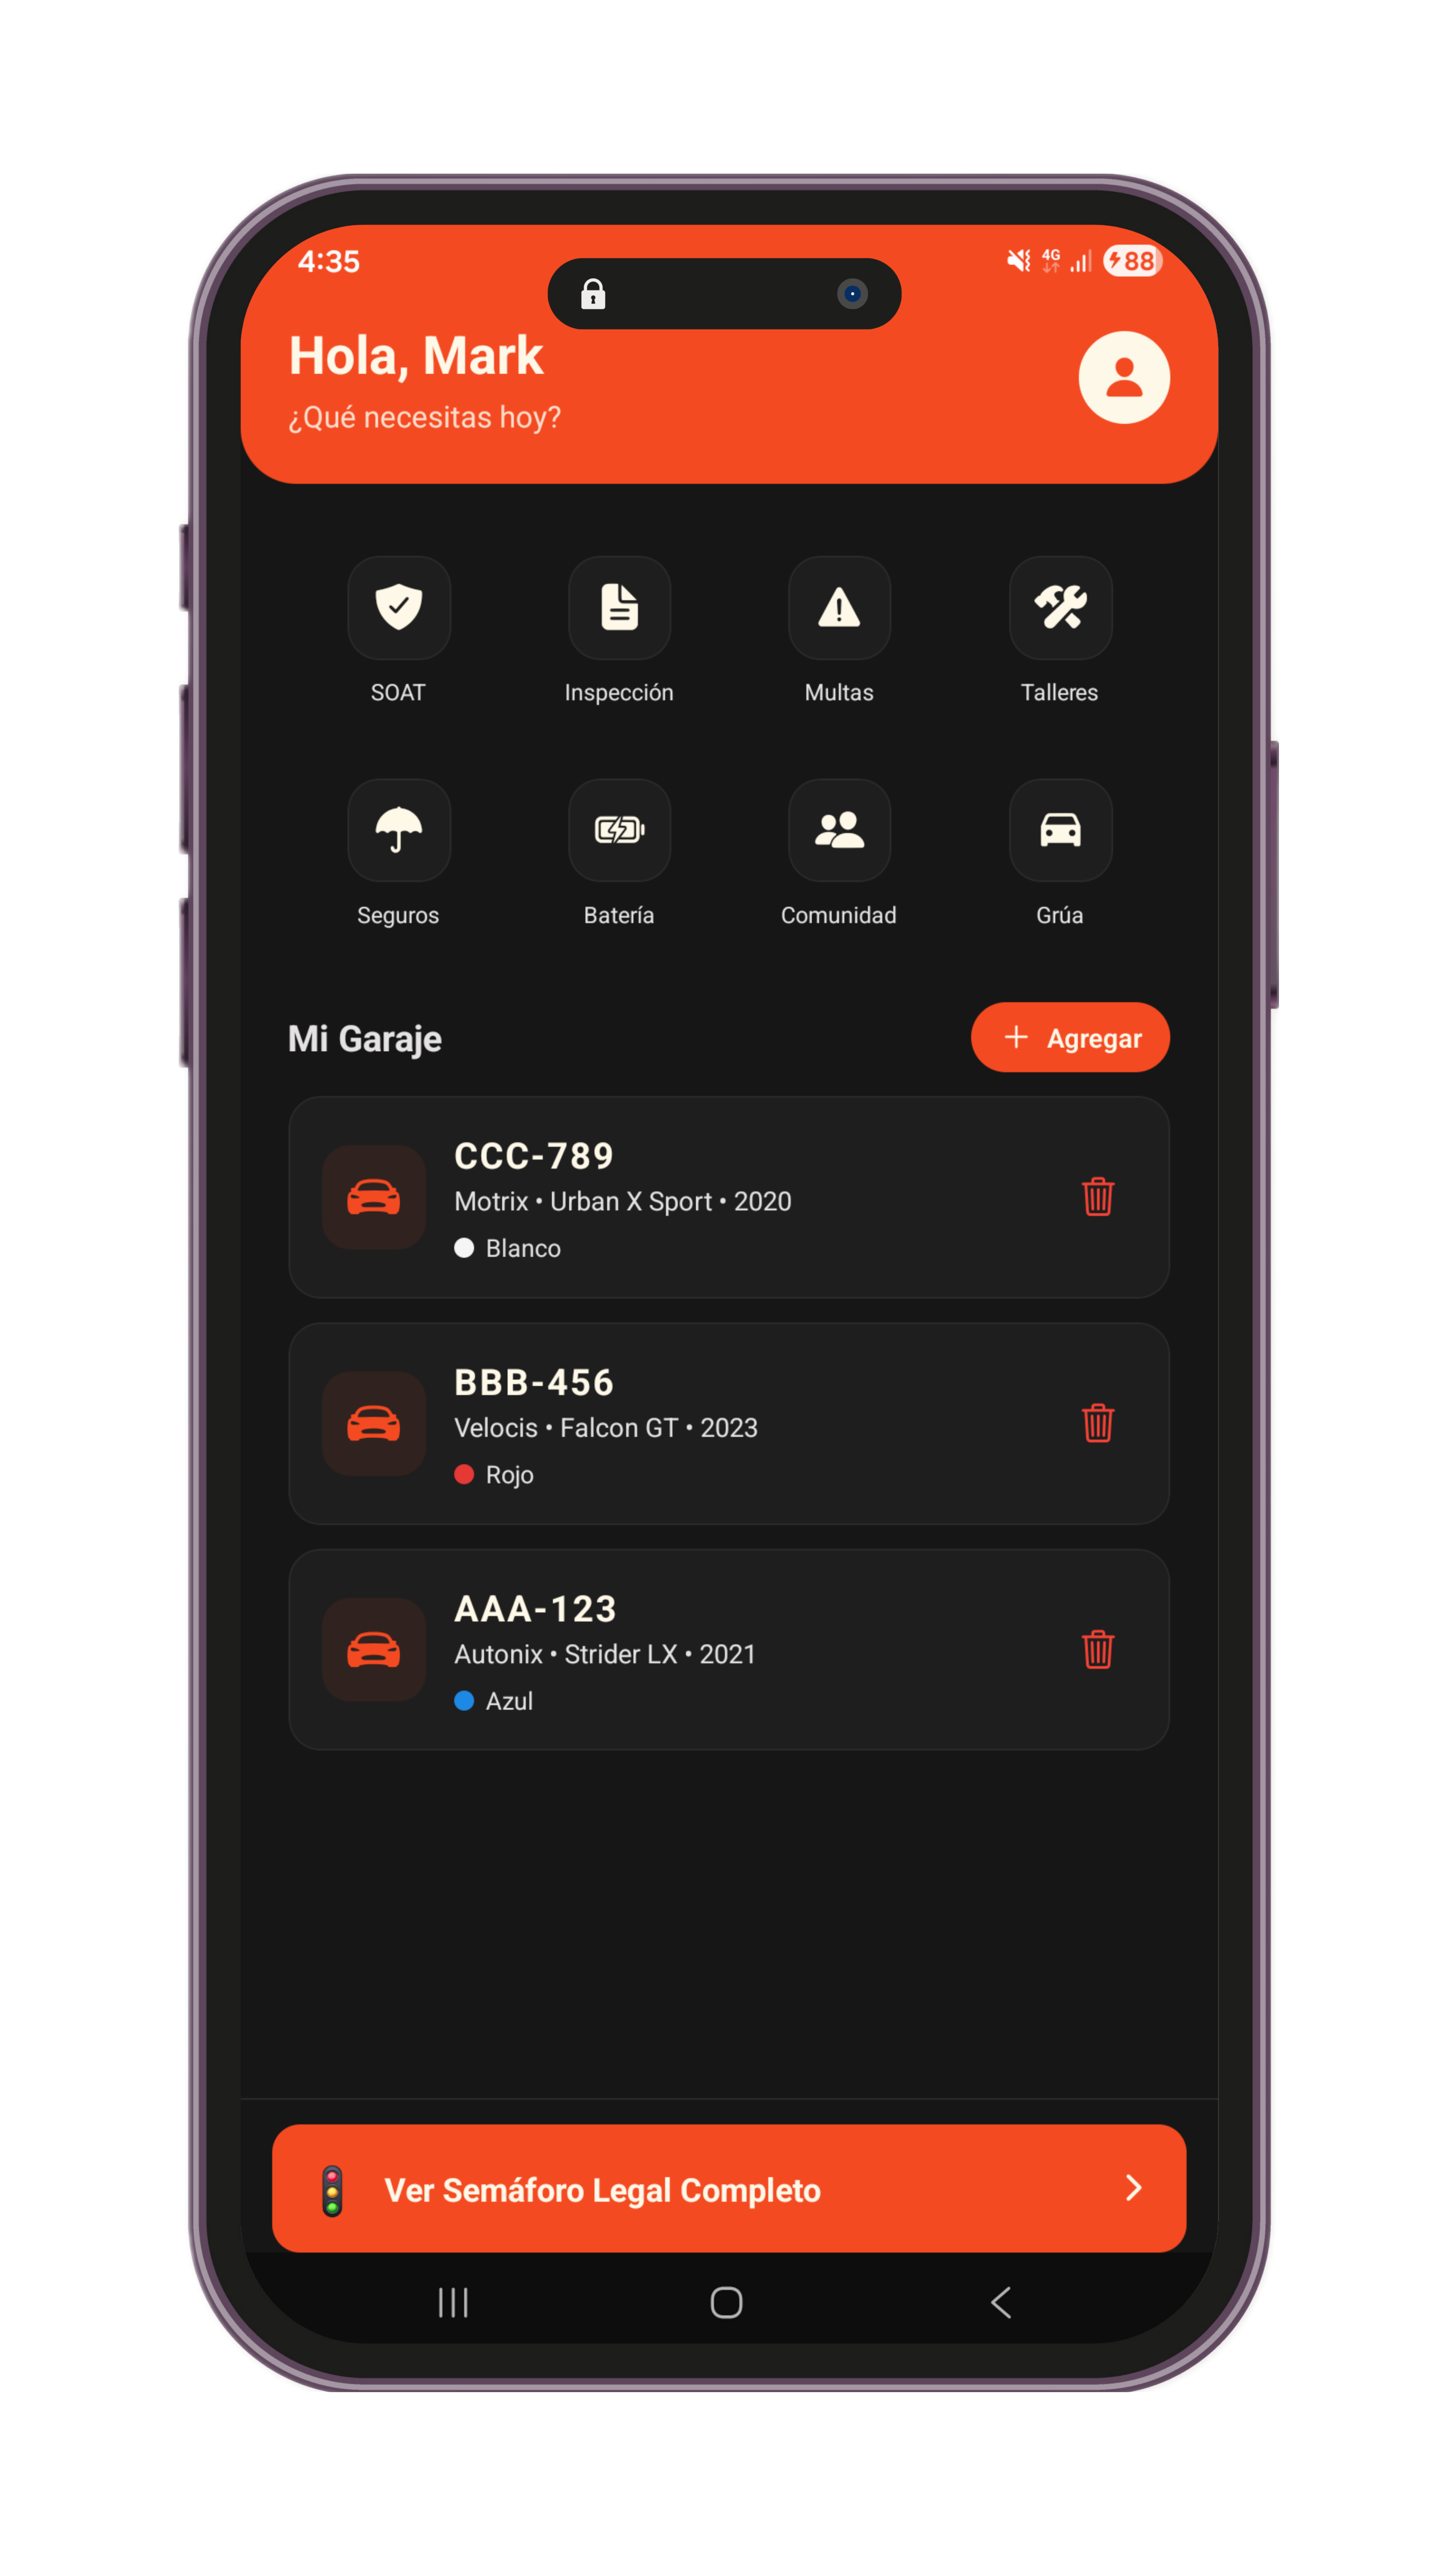
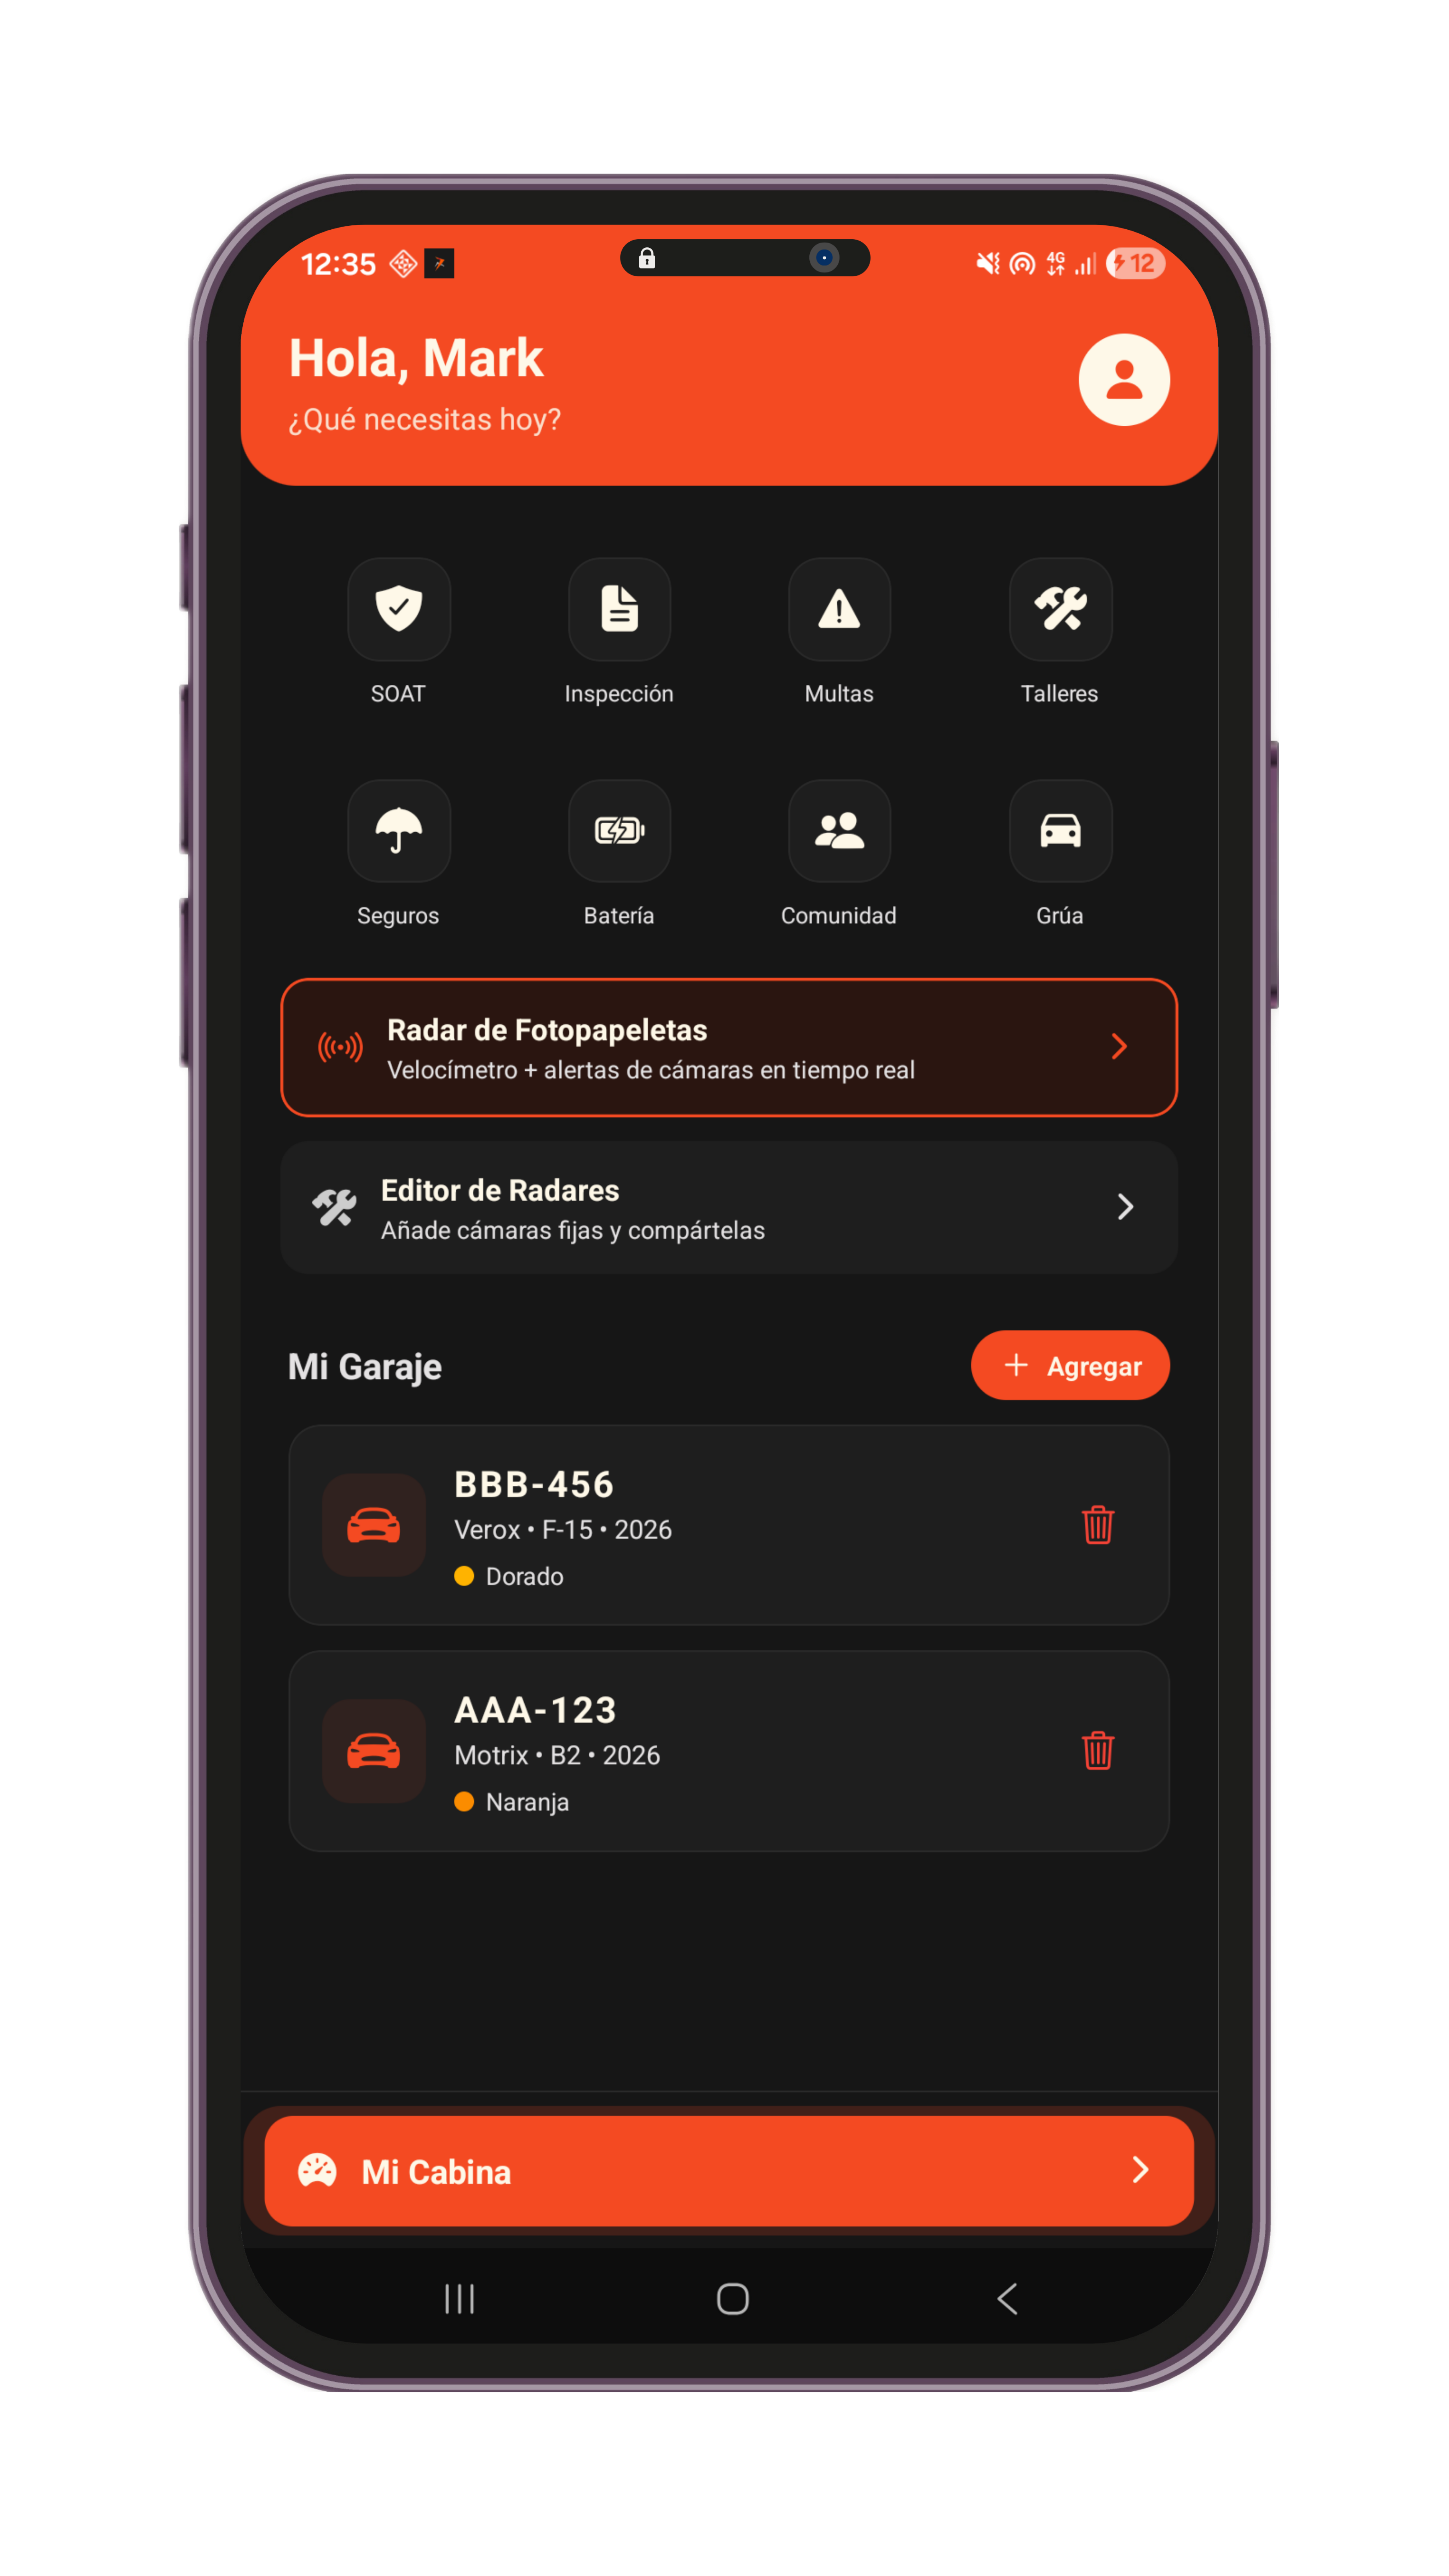
feat(landing): priorizar sistema Report-to-Earn (PR) y actualización legal
- refactor(ui): reemplazo de 'Editor de Radares' por la tarjeta de monetización 'Monetiza tu Ruta (PR)'.

- feat(ui): reestructuración de la cuadrícula de características para resaltar la ganancia por reportes.

- docs(legal): actualización de Términos y Condiciones y Política de Privacidad con cláusulas de protección para PR y RC.

- chore: optimización de metadatos para el despliegue v4.1 en Vercel.

diff --git a/src/pages/TermsOfService.jsx b/src/pages/TermsOfService.jsx
@@ -12,7 +12,7 @@ export default function TermsOfService() {
           Términos y Condiciones de Uso
         </h1>
         <p className="mb-4 text-sm text-ravagx-gray">
-          Última actualización: 30 de abril de 2026 (v4.0.0)
+          Última actualización: 2 de mayo de 2026 (v4.1.0)
         </p>
         <p className="mb-12 text-gray-300 leading-relaxed">
           Estos Términos y Condiciones (&quot;Términos&quot;) regulan el acceso
@@ -297,6 +297,137 @@ export default function TermsOfService() {
               de una eventual terminación del programa, o de la eliminación de
               la cuenta por causa imputable al Usuario, caducarán sin derecho a
               compensación.
+            </p>
+          </section>
+
+          {/* 3.6 — Report-to-Earn (PR) */}
+          <section>
+            <h2 className="mb-3 text-xl font-bold text-white">
+              3.6 Programa Report-to-Earn — Puntos de Reporte (PR)
+            </h2>
+            <h3 className="mb-2 text-lg font-semibold text-white/90">
+              3.6.1 Naturaleza jurídica de los PR
+            </h3>
+            <p className="mb-4">
+              Los Puntos de Reporte (&quot;PR&quot;) son{" "}
+              <strong className="text-white">
+                puntos de lealtad promocionales internos
+              </strong>{" "}
+              otorgados de forma discrecional por RavaGx en reconocimiento a la
+              participación del Usuario en el programa Report-to-Earn. Los PR{" "}
+              <strong className="text-white">NO constituyen</strong> dinero
+              electrónico (Ley N° 29985), moneda de curso legal, criptomonedas,
+              criptoactivos, valores mobiliarios, depósitos bancarios ni
+              instrumentos financieros de naturaleza alguna. Los PR carecen de
+              valor monetario fuera del ecosistema RavaGx, no son transferibles
+              entre cuentas, no son heredables, no devengan intereses y no son
+              reembolsables en efectivo salvo dentro de los mecanismos de canje
+              vigentes publicados por RavaGx. El saldo en PR del Usuario{" "}
+              <strong className="text-white">
+                no constituye un crédito firme exigible
+              </strong>{" "}
+              contra RavaGx Team.
+            </p>
+            <h3 className="mb-2 text-lg font-semibold text-white/90">
+              3.6.2 Tasa de cambio variable y mínimos de retiro
+            </h3>
+            <p className="mb-4">
+              RavaGx se reserva el derecho{" "}
+              <strong className="text-white">
+                absoluto, unilateral y discrecional
+              </strong>{" "}
+              de fijar, modificar, ajustar, suspender o eliminar — en cualquier
+              momento y{" "}
+              <strong className="text-white">sin previo aviso</strong> ni
+              necesidad de justificación: (i) la tasa de conversión de PR a
+              Soles (PEN) o a cualquier otro medio de canje; (ii) los montos
+              mínimos y máximos de retiro o canje; (iii) las comisiones
+              aplicables; (iv) las frecuencias permitidas de retiro; (v) las
+              plataformas de pago habilitadas (Yape, Plin u otras); (vi) las
+              categorías de reporte que generan PR y los multiplicadores
+              aplicables; (vii) la caducidad o expiración de los puntos por
+              inactividad. Cualquier modificación se aplicará tanto a los PR
+              futuros como a los acumulados pendientes de canje.
+            </p>
+            <h3 className="mb-2 text-lg font-semibold text-white/90">
+              3.6.3 Cláusula Antifraude, Anti-Farmeo y Baneo
+            </h3>
+            <p className="mb-3">
+              Constituyen infracciones graves que facultan a RavaGx a, sin
+              previo aviso ni indemnización, anular total o parcialmente los
+              PR/RC acumulados, retener pagos en proceso, suspender temporal o
+              permanentemente la cuenta (baneo), bloquear dispositivos, IPs y
+              medios de pago asociados, e iniciar las acciones legales que
+              correspondan:
+            </p>
+            <ul className="list-disc space-y-1.5 pl-6 mb-4">
+              <li>
+                Uso de emuladores, dispositivos virtualizados, dispositivos
+                rooteados o con jailbreak con fines de manipulación.
+              </li>
+              <li>
+                Uso de aplicaciones o técnicas de falsificación de ubicación
+                (Fake GPS, mock locations, spoofing de sensores).
+              </li>
+              <li>
+                Uso de bots, scripts, automatización, macros, granjas de
+                dispositivos o cualquier mecanismo no humano para generar
+                reportes o interacciones.
+              </li>
+              <li>
+                Coordinación entre dos o más cuentas para inflar artificialmente
+                reportes, votos, &quot;likes&quot;, validaciones o cualquier
+                métrica del programa (&quot;farmeo de interacciones&quot; o
+                &quot;granjas de likes&quot;).
+              </li>
+              <li>
+                Publicación de reportes falsos, duplicados, desactualizados,
+                inducidos o sin sustento real verificable.
+              </li>
+              <li>
+                Creación de cuentas múltiples (multi-accounting) por una misma
+                persona natural.
+              </li>
+              <li>
+                Uso de VPN, proxies o redirecciones de red para simular
+                ubicaciones distintas a la real.
+              </li>
+              <li>
+                Cualquier otra conducta que, a criterio razonable de RavaGx,
+                vulnere la integridad económica del programa o perjudique a
+                otros usuarios de buena fe.
+              </li>
+            </ul>
+            <p className="mb-4">
+              La determinación de la infracción se realizará con base en
+              evidencia algorítmica, telemetría del dispositivo, datos de
+              ubicación, patrones estadísticos y/o revisión humana, siendo la
+              decisión de RavaGx{" "}
+              <strong className="text-white">final e inapelable</strong>, salvo
+              error material manifiesto. Los fondos retenidos por aplicación de
+              esta cláusula no generan derecho a compensación, intereses ni
+              resarcimiento.
+            </p>
+            <h3 className="mb-2 text-lg font-semibold text-white/90">
+              3.6.4 Liquidez, sostenibilidad y fuerza mayor económica
+            </h3>
+            <p className="mb-4">
+              El programa Report-to-Earn opera bajo un modelo de economía
+              cerrada. RavaGx podrá pausar temporalmente los retiros, ampliar
+              los plazos de pago hasta por noventa (90) días calendario o
+              reestructurar el programa frente a eventos de iliquidez
+              transitoria, ataques masivos de fraude, cambios regulatorios,
+              decisiones de proveedores de pago (Yape, Plin, bancos) o supuestos
+              de fuerza mayor, sin que ello genere responsabilidad para RavaGx.
+            </p>
+            <h3 className="mb-2 text-lg font-semibold text-white/90">
+              3.6.5 Tributación
+            </h3>
+            <p>
+              El Usuario es el único responsable por las obligaciones
+              tributarias derivadas de los canjes recibidos, debiendo declarar
+              dichos importes ante la SUNAT cuando corresponda conforme a la
+              legislación peruana vigente.
             </p>
           </section>
 

diff --git a/src/pages/PrivacyPolicy.jsx b/src/pages/PrivacyPolicy.jsx
@@ -12,7 +12,7 @@ export default function PrivacyPolicy() {
           Política de Privacidad
         </h1>
         <p className="mb-4 text-sm text-ravagx-gray">
-          Última actualización: 30 de abril de 2026 (v4.0.0)
+          Última actualización: 2 de mayo de 2026 (v4.1.0)
         </p>
         <p className="mb-12 text-gray-300 leading-relaxed">
           RavaGx (&quot;nosotros&quot;, &quot;nuestro&quot;, &quot;la
@@ -284,6 +284,70 @@ export default function PrivacyPolicy() {
               se utiliza con fines publicitarios ni se cede a terceros ajenos al
               proceso de liquidación. RavaGx no almacena claves, PINs ni
               credenciales de acceso a billeteras digitales.
+            </p>
+
+            <h3 className="mb-2 text-lg font-semibold text-white/90">
+              1.7.2 Datos de GPS y Validación Antifraude (Programa
+              Report-to-Earn)
+            </h3>
+            <p className="mb-3">
+              Como parte del programa de recompensas{" "}
+              <strong className="text-white">Report-to-Earn</strong> (Puntos de
+              Reporte – PR), RavaGx recopila, procesa y analiza datos de{" "}
+              <strong className="text-white">
+                ubicación precisa (GPS) y velocidad
+              </strong>{" "}
+              del dispositivo, incluso cuando la aplicación se ejecuta en
+              segundo plano (background) mientras el usuario tiene activo el
+              Radar, el Botón Flotante o cualquier modo de reporte. Esta
+              recopilación se realiza con la finalidad estricta, lícita y
+              proporcional de:
+            </p>
+            <ul className="list-disc space-y-1.5 pl-6 mb-3">
+              <li>
+                Validar la{" "}
+                <strong className="text-white">
+                  autenticidad y geolocalización real
+                </strong>{" "}
+                de cada reporte (fotopapeletas, incidentes, operativos, radares
+                móviles), así como su consistencia espacio-temporal.
+              </li>
+              <li>
+                Detectar y prevenir fraude, suplantación de ubicación, uso de{" "}
+                <strong className="text-white">Fake GPS</strong>, emuladores,
+                dispositivos rooteados, automatización (bots/scripts), VPN
+                sospechosas y patrones de comportamiento anómalos incompatibles
+                con un desplazamiento humano real.
+              </li>
+              <li>
+                Calcular de manera justa la atribución de Puntos de Reporte (PR)
+                entre usuarios y evitar el{" "}
+                <strong className="text-white">&quot;farmeo&quot;</strong> o las
+                granjas de interacción coludidas.
+              </li>
+              <li>
+                Proteger la integridad económica del ecosistema y de los demás
+                usuarios de buena fe.
+              </li>
+            </ul>
+            <p className="mb-4">
+              RavaGx{" "}
+              <strong className="text-white">
+                no comercializa, vende ni cede a terceros con fines
+                publicitarios
+              </strong>{" "}
+              los historiales de ubicación recopilados con esta finalidad. Los
+              datos de validación antifraude se conservan únicamente por el
+              tiempo razonablemente necesario para auditar reportes, resolver
+              disputas, atender requerimientos legales y entrenar nuestros
+              modelos internos de detección de abuso. El Usuario, al activar el
+              Radar, el Botón Flotante o cualquier funcionalidad del programa
+              Report-to-Earn, otorga su{" "}
+              <strong className="text-white">
+                consentimiento expreso, informado e inequívoco
+              </strong>{" "}
+              para este tratamiento. La revocación del consentimiento implica la
+              imposibilidad de participar en el programa de recompensas.
             </p>
 
             <h3 className="mb-2 text-lg font-semibold text-white/90">

diff --git a/src/App.jsx b/src/App.jsx
@@ -15,10 +15,10 @@ import {
   Gauge,
   Radar,
   LayoutDashboard,
-  MapPinned,
   Coins,
   Sparkles,
   Siren,
+  Banknote,
 } from "lucide-react";
 import mockup from "./assets/mockup.png";
 
@@ -189,18 +189,18 @@ function Features() {
    ────────────────────────────────────────────── */
 const newFeatures = [
   {
+    icon: Banknote,
+    badge: "Report-to-Earn",
+    title: "Monetiza tu Ruta (PR)",
+    description:
+      "No manejes gratis. Reporta fotopapeletas, incidentes y operativos en tiempo real. Si tu reporte ayuda a otros, ganas Puntos de Reporte (PR) que puedes canjear por dinero real directo a tu Yape. ¡La primera app que te paga por conducir!",
+  },
+  {
     icon: LayoutDashboard,
     badge: "Nuevo",
     title: "Mi Cabina Inteligente",
     description:
       "Tu copiloto financiero y operativo. Controla el score de tu vehículo, recibe alertas tempranas de tus documentos (SOAT, revisiones) y descubre en tiempo real el Tótem de precios para ahorrar en cada galón de combustible.",
-  },
-  {
-    icon: MapPinned,
-    badge: "Freemium",
-    title: "Editor de Radares Comunitario",
-    description:
-      "Tú conoces las calles mejor que nadie. Usa nuestro nuevo Editor Freemium para mapear y publicar radares fijos en tu ciudad. Construyamos juntos la red de seguridad vial más grande del país.",
   },
   {
     icon: Coins,
@@ -233,8 +233,8 @@ function NewFeatures() {
             <span className="text-ravagx-orange">Killer Features</span>
           </h2>
           <p className="mt-5 max-w-2xl text-ravagx-gray sm:text-lg">
-            Tres pilares que transforman tu manera de conducir, reportar y ganar
-            dentro del ecosistema RavaGx.
+            Cuatro pilares que transforman tu manera de conducir, reportar y
+            ganar dentro del ecosistema RavaGx.
           </p>
         </div>
 
@@ -257,9 +257,12 @@ function NewFeatures() {
         </div>
 
         <p className="mt-10 text-center text-xs text-ravagx-gray/70">
-          *RavaCoins (RC) son puntos de lealtad promocionales del ecosistema
-          RavaGx. No constituyen dinero electrónico ni instrumentos financieros.
-          Aplican Términos y Condiciones.
+          *Los Puntos de Reporte (PR) y RavaCoins (RC) son puntos de lealtad
+          promocionales internos del ecosistema RavaGx. No constituyen dinero
+          electrónico, criptomonedas ni instrumentos financieros. La tasa de
+          conversión a Soles, los mínimos de retiro y las condiciones de canje
+          pueden modificarse en cualquier momento sin previo aviso. Aplican
+          Términos, Condiciones y Política Antifraude.
         </p>
       </div>
     </section>

diff --git a/index.html b/index.html
@@ -4,6 +4,19 @@
     <meta charset="UTF-8" />
     <link rel="icon" type="image" href="./src/assets/favicon.png" />
     <meta name="viewport" content="width=device-width, initial-scale=1.0" />
+    <meta
+      name="description"
+      content="RavaGx v4.1 — La primera app que te paga por conducir. Reporta fotopapeletas, incidentes y operativos en tiempo real y gana Puntos de Reporte (PR) canjeables por dinero real a tu Yape."
+    />
+    <meta name="theme-color" content="#FF4D29" />
+    <meta property="og:title" content="RavaGx — Asistente Vehicular Inteligente" />
+    <meta
+      property="og:description"
+      content="Monetiza tu ruta con el sistema Report-to-Earn (PR). Radar de fotopapeletas, alertas por voz y recompensas reales directas a tu Yape."
+    />
+    <meta property="og:type" content="website" />
+    <meta property="og:url" content="https://www.ravagx.com" />
+    <meta name="twitter:card" content="summary_large_image" />
     <title>RavaGx — Asistente Vehicular Inteligente</title>
     <link rel="preconnect" href="https://fonts.googleapis.com" />
     <link rel="preconnect" href="https://fonts.gstatic.com" crossorigin />